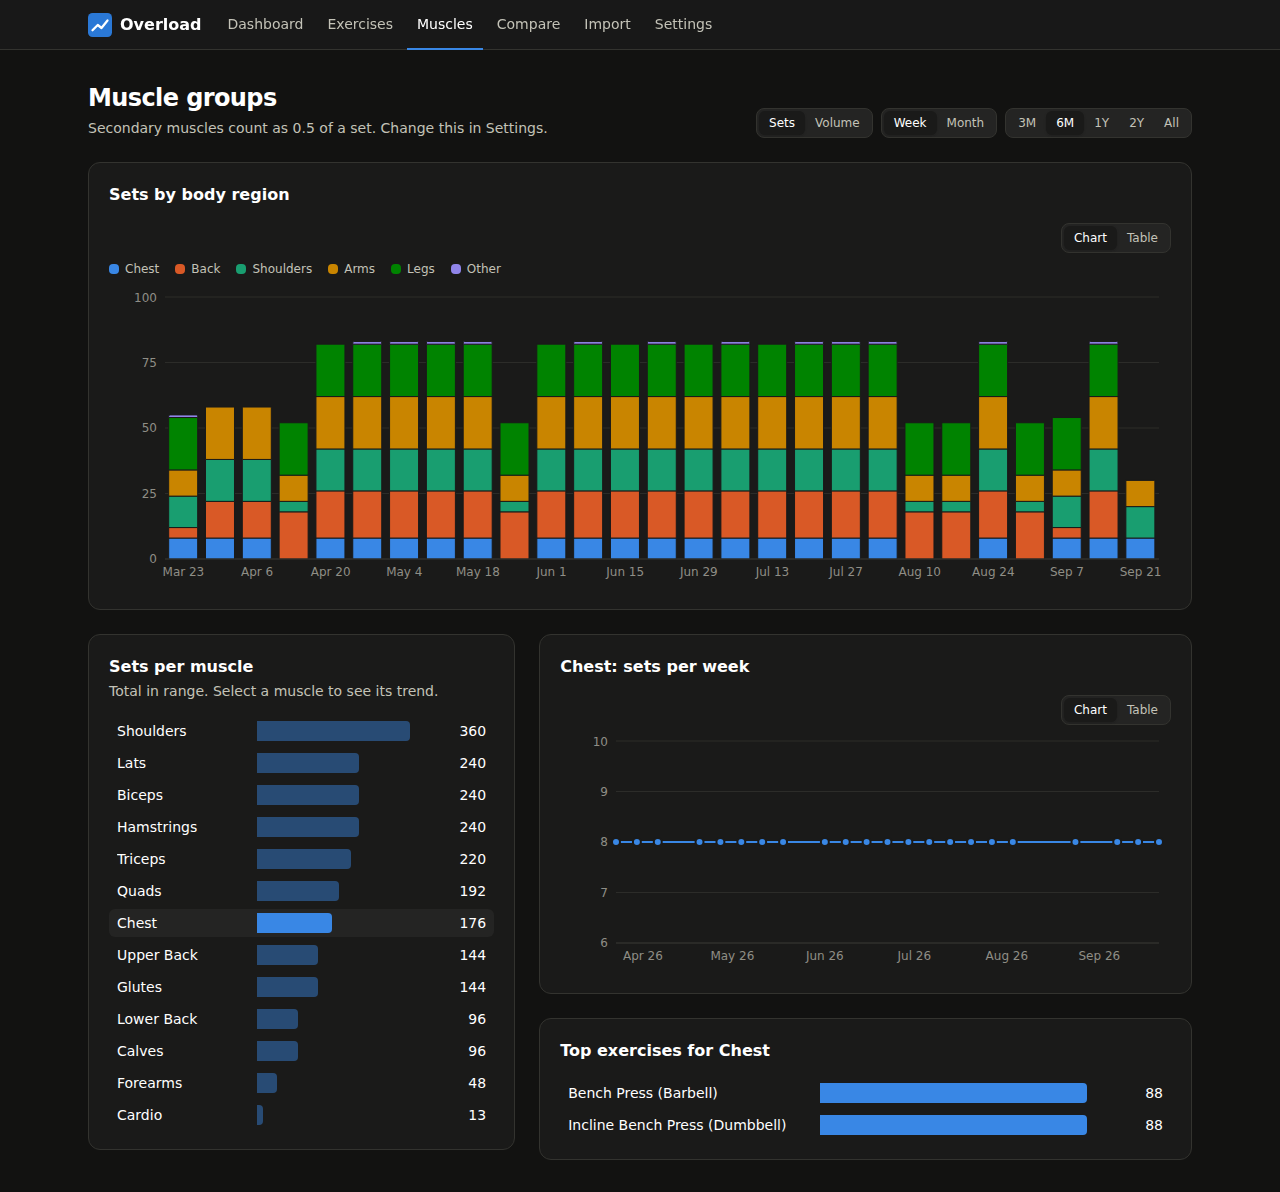
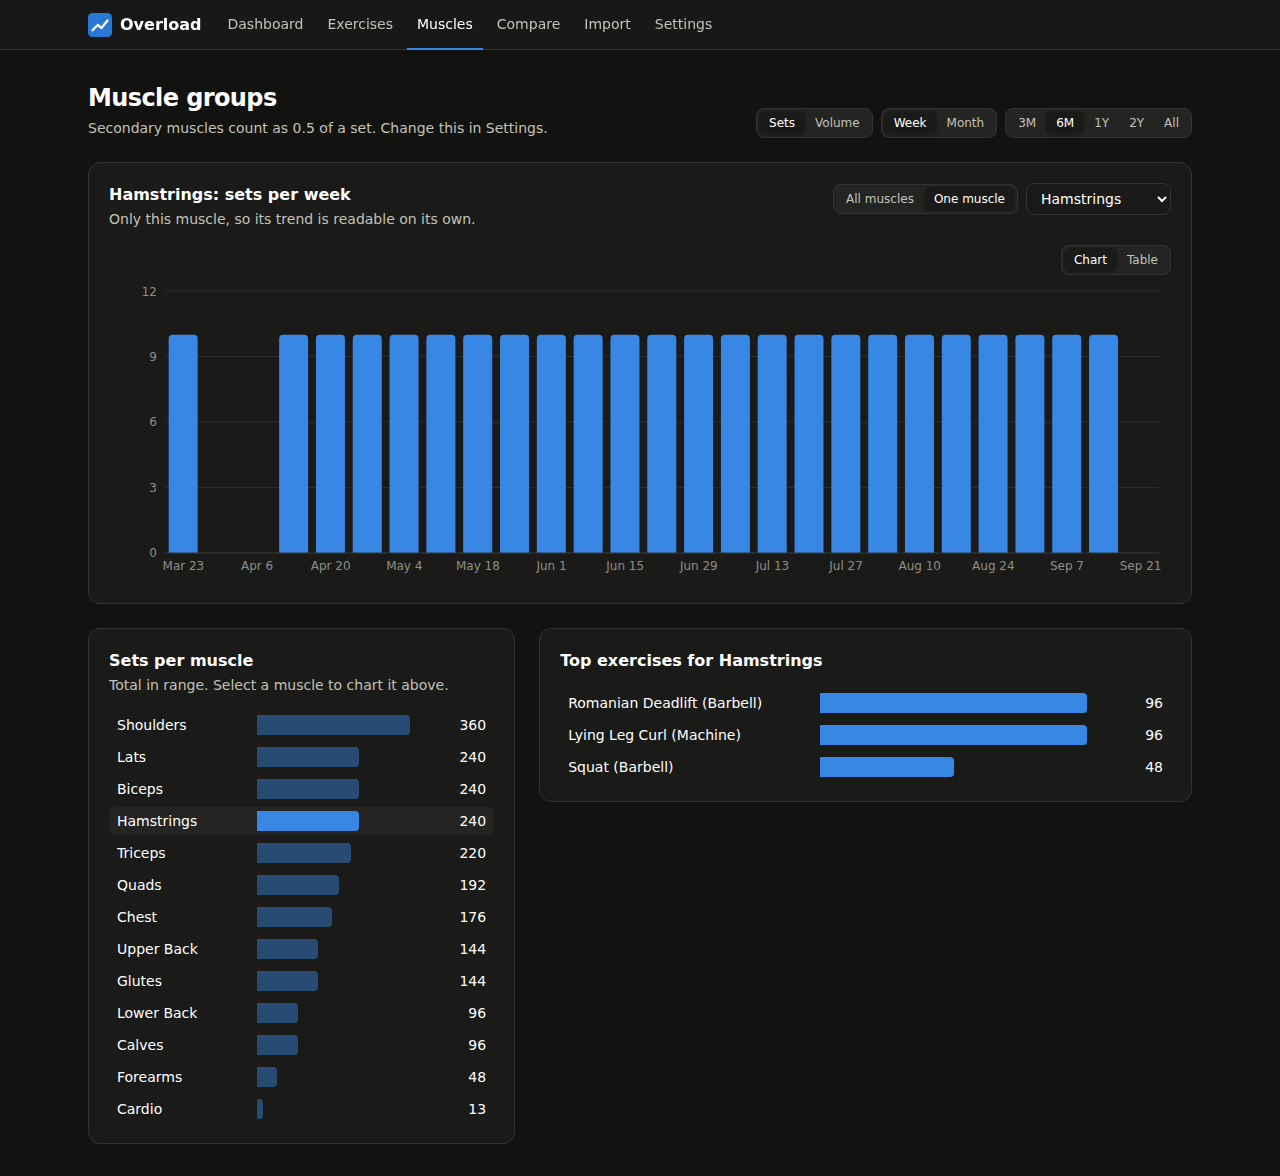
Let the muscles chart isolate one muscle; keep sample data from reseeding
The stacked region chart made a single muscle's trend hard to read. The top chart now
toggles between all muscles stacked and one muscle on its own, and picking a muscle in
the list below focuses the chart on it. That absorbs the separate per-muscle trend card,
which showed the same thing in a smaller space.

Also: the sample-data seed flag lived only in localStorage, so a browser that blocks it
could seed the sample again after the user removed it. Removal is now recorded in
IndexedDB alongside the data, and the preview build says its sandbox may clear storage.

Claude-Session: https://claude.ai/code/session_01AWoBy98a8NvHr3Bq7afczC

diff --git a/src/pages/MusclesPage.tsx b/src/pages/MusclesPage.tsx
@@ -1,8 +1,8 @@
 import { useMemo } from 'react';
-import { BarList, StackedBars, TrendChart } from '../components/charts';
+import { BarList, StackedBars } from '../components/charts';
 import { NoDataPage } from '../components/NoDataPage';
 import { RangeControls } from '../components/RangeControls';
-import { Card, Muted, PageHeader, Segmented } from '../components/ui';
+import { Card, Muted, PageHeader, Segmented, Select } from '../components/ui';
 import { inRange } from '../domain/analysis';
 import type { Bucket } from '../domain/dates';
 import { muscleContributors, muscleSeries, totalsByKey } from '../domain/metrics';
@@ -15,6 +15,8 @@ import { usePref } from '../hooks/usePref';
 import { SERIES_COLORS } from '../lib/colors';
 
 type Metric = 'sets' | 'volume';
+/** The top chart either breaks training down by region, or isolates one muscle. */
+type View = 'regions' | 'muscle';
 
 const BUCKETS: { id: Bucket; label: string }[] = [
   { id: 'week', label: 'Week' },
@@ -30,6 +32,7 @@ export default function MusclesPage() {
   const settings = useSettings();
   const [metric, setMetric] = usePref<Metric>('muscles.metric', 'sets');
   const [selected, setSelected] = usePref<MuscleGroup>('muscles.selected', 'Chest');
+  const [view, setView] = usePref<View>('muscles.view', 'regions');
   const { range, setRange, bucket, setBucket, start } = useChartControls('muscles', {
     range: '6m',
     bucket: 'week',
@@ -66,10 +69,22 @@ export default function MusclesPage() {
 
   const fmt = (v: number) => formatCompact(v, 1);
   const metricLabel = metric === 'sets' ? 'Sets' : `Volume (${settings.defaultUnit})`;
-  const trend = data.muscles.rows.flatMap((r) => {
-    const v = r[selected];
-    return typeof v === 'number' ? [{ period: r.period, value: v }] : [];
-  });
+  const single = view === 'muscle';
+
+  // One series for the chosen muscle. Periods it was not trained stay in, as zeros,
+  // so gaps in training are visible rather than collapsed away.
+  const muscleRows = data.muscles.rows.map((r) => ({
+    period: r.period,
+    value: Number(r[selected]) || 0,
+  }));
+  const muscleOptions = MUSCLE_GROUPS.filter(
+    (m) => m === selected || data.muscles.groups.includes(m),
+  ).map((m) => ({ id: m, label: m }));
+
+  const focusMuscle = (m: MuscleGroup) => {
+    setSelected(m);
+    setView('muscle');
+  };
 
   return (
     <>
@@ -98,20 +113,64 @@ export default function MusclesPage() {
         }
       />
 
-      <Card title={`${metricLabel} by body region`} className="mb-6">
-        <StackedBars
-          rows={data.regions.rows}
-          keys={REGION_KEYS.filter((k) => data.regions.groups.includes(k.id))}
-          bucket={bucket}
-          format={fmt}
-        />
+      <Card
+        className="mb-6"
+        title={
+          single
+            ? `${selected}: ${metricLabel.toLowerCase()} per ${bucket}`
+            : `${metricLabel} by body region`
+        }
+        subtitle={
+          single
+            ? 'Only this muscle, so its trend is readable on its own.'
+            : 'Every muscle stacked, to see how a session splits up.'
+        }
+        actions={
+          <>
+            <Segmented<View>
+              label="Chart contents"
+              value={view}
+              onChange={setView}
+              options={[
+                { id: 'regions', label: 'All muscles' },
+                { id: 'muscle', label: 'One muscle' },
+              ]}
+            />
+            {single && (
+              <Select
+                label="Muscle"
+                value={selected}
+                onChange={(m) => {
+                  setSelected(m);
+                }}
+                options={muscleOptions}
+              />
+            )}
+          </>
+        }
+      >
+        {single ? (
+          <StackedBars
+            rows={muscleRows}
+            keys={[{ id: 'value', label: selected, color: SERIES_COLORS[0] ?? '' }]}
+            bucket={bucket}
+            format={fmt}
+          />
+        ) : (
+          <StackedBars
+            rows={data.regions.rows}
+            keys={REGION_KEYS.filter((k) => data.regions.groups.includes(k.id))}
+            bucket={bucket}
+            format={fmt}
+          />
+        )}
       </Card>
 
       <div className="grid items-start gap-6 lg:grid-cols-5">
         <Card
           className="lg:col-span-2"
           title={`${metricLabel} per muscle`}
-          subtitle="Total in range. Select a muscle to see its trend."
+          subtitle="Total in range. Select a muscle to chart it above."
         >
           {data.totals.length ? (
             <BarList
@@ -119,7 +178,7 @@ export default function MusclesPage() {
               format={fmt}
               selected={selected}
               onSelect={(id) => {
-                setSelected(id as MuscleGroup);
+                focusMuscle(id as MuscleGroup);
               }}
             />
           ) : (
@@ -127,31 +186,21 @@ export default function MusclesPage() {
           )}
         </Card>
 
-        <div className="space-y-6 lg:col-span-3">
-          <Card title={`${selected}: ${metricLabel.toLowerCase()} per ${bucket}`}>
-            <TrendChart
-              series={[{ id: 'v', label: selected, color: SERIES_COLORS[0] ?? '', points: trend }]}
-              bucket={bucket}
+        <Card className="lg:col-span-3" title={`Top exercises for ${selected}`}>
+          {data.contributors.length ? (
+            <BarList
+              wideLabels
               format={fmt}
-              height={240}
+              items={data.contributors.map((c) => ({
+                id: c.exercise,
+                label: c.exercise,
+                value: c.value,
+              }))}
             />
-          </Card>
-          <Card title={`Top exercises for ${selected}`}>
-            {data.contributors.length ? (
-              <BarList
-                wideLabels
-                format={fmt}
-                items={data.contributors.map((c) => ({
-                  id: c.exercise,
-                  label: c.exercise,
-                  value: c.value,
-                }))}
-              />
-            ) : (
-              <Muted>No exercises hit this muscle in range.</Muted>
-            )}
-          </Card>
-        </div>
+          ) : (
+            <Muted>No exercises hit this muscle in range.</Muted>
+          )}
+        </Card>
       </div>
     </>
   );

diff --git a/src/hooks/useSampleData.ts b/src/hooks/useSampleData.ts
@@ -1,11 +1,24 @@
 import { useLiveQuery } from 'dexie-react-hooks';
 import { useEffect } from 'react';
 import { db } from '../db/db';
-import { commitImport, undoImport } from '../db/repo';
+import { commitImport, readFlag, undoImport, writeFlag } from '../db/repo';
 import { SAMPLE_FILE_NAME } from '../demo/sampleName';
 import { parseFile } from '../importers';
 import { sha256 } from '../lib/hash';
 import { readPref, writePref } from '../lib/storage';
+
+/** Set once the sample has been removed, so it is never seeded back in. */
+const SAMPLE_REMOVED = 'sampleRemoved';
+
+/**
+ * Auto-seeding is for a first visit only: never after the sample was removed, and never
+ * over existing data. The flag lives in IndexedDB beside the data, so it holds up in
+ * browsers that block localStorage.
+ */
+export async function shouldSeedSample(): Promise<boolean> {
+  if (await readFlag(db, SAMPLE_REMOVED)) return false;
+  return (await db.sets.count()) === 0;
+}
 
 /** Generates and imports the sample export through the normal import pipeline. */
 export async function importSampleData() {
@@ -24,7 +37,12 @@ export function useSampleImport() {
     () => db.imports.filter((r) => r.fileName === SAMPLE_FILE_NAME).first(),
     [],
   );
-  const remove = () => (record?.id != null ? undoImport(db, record.id) : Promise.resolve(0));
+  const remove = async () => {
+    if (record?.id == null) return 0;
+    const removed = await undoImport(db, record.id);
+    await writeFlag(db, SAMPLE_REMOVED, true);
+    return removed;
+  };
   return { record, remove };
 }
 
@@ -36,6 +54,6 @@ export function useDemoSeed() {
   useEffect(() => {
     if (import.meta.env.VITE_DEMO !== '1' || readPref<boolean>('demo.seeded', false)) return;
     writePref('demo.seeded', true);
-    void db.sets.count().then((n) => (n === 0 ? importSampleData() : undefined));
+    void shouldSeedSample().then((seed) => (seed ? importSampleData() : undefined));
   }, []);
 }

diff --git a/src/hooks/useSampleData.test.ts b/src/hooks/useSampleData.test.ts
@@ -1,18 +1,31 @@
 import { db } from '../db/db';
+import { writeFlag } from '../db/repo';
 import { SAMPLE_FILE_NAME } from '../demo/sampleName';
-import { importSampleData } from './useSampleData';
+import { importSampleData, shouldSeedSample } from './useSampleData';
 
-describe('importSampleData', () => {
+describe('sample data', () => {
   afterEach(async () => {
     await db.delete();
     await db.open();
   });
 
-  it('imports the sample through the normal pipeline, and only once', async () => {
+  it('imports through the normal pipeline, and only once', async () => {
     const first = await importSampleData();
     expect(first.fileName).toBe(SAMPLE_FILE_NAME);
     expect(first.added).toBeGreaterThan(1000);
     const again = await importSampleData();
     expect(again.added).toBe(0);
+  });
+
+  it('seeds only an empty database that has never had the sample removed', async () => {
+    expect(await shouldSeedSample()).toBe(true);
+
+    await importSampleData();
+    expect(await shouldSeedSample()).toBe(false);
+
+    // Removing the sample leaves the database empty but must not invite a re-seed.
+    await db.sets.clear();
+    await writeFlag(db, 'sampleRemoved', true);
+    expect(await shouldSeedSample()).toBe(false);
   });
 });

diff --git a/src/components/SampleDataBanner.tsx b/src/components/SampleDataBanner.tsx
@@ -2,6 +2,9 @@ import { useState } from 'react';
 import { useSampleImport } from '../hooks/useSampleData';
 import { Button, Callout } from './ui';
 
+// Demo builds are the hosted preview; a real deployment keeps data like any other site.
+const isPreview = import.meta.env.VITE_DEMO === '1';
+
 /** Marks generated sample data as such, with a one-click way to remove it. */
 export function SampleDataBanner() {
   const { record, remove } = useSampleImport();
@@ -10,7 +13,16 @@ export function SampleDataBanner() {
   return (
     <Callout className="mb-6" tone="info" title="You're looking at generated sample data">
       <div className="flex flex-wrap items-center justify-between gap-2">
-        <span>Remove it before importing your own Strong export so the two don&apos;t mix.</span>
+        <span>
+          Remove it before importing your own Strong export so the two don&apos;t mix.
+          {isPreview && (
+            <>
+              {' '}
+              This preview runs in a sandbox that may clear browser storage between visits, so
+              don&apos;t count on anything you import here sticking around.
+            </>
+          )}
+        </span>
         <Button
           disabled={busy}
           onClick={() => {

diff --git a/src/db/repo.test.ts b/src/db/repo.test.ts
@@ -12,8 +12,10 @@ import {
   findDuplicateSets,
   loadSettings,
   previewImport,
+  readFlag,
   restoreBackup,
   saveSettings,
+  writeFlag,
   undoImport,
   updateExercise,
 } from './repo';
@@ -262,5 +264,15 @@ describe('sync removing a whole workout', () => {
     expect(await db.workouts.count()).toBe(2);
     const push = await db.workouts.get('2019-01-30T18:02:00|Push');
     expect(push?.durationSec).toBe(3300);
+  });
+});
+
+describe('meta flags', () => {
+  it('default to false and survive a settings save', async () => {
+    expect(await readFlag(db, 'sampleRemoved')).toBe(false);
+    await writeFlag(db, 'sampleRemoved', true);
+    await saveSettings(db, { defaultUnit: 'kg' });
+    expect(await readFlag(db, 'sampleRemoved')).toBe(true);
+    expect((await loadSettings(db)).defaultUnit).toBe('kg');
   });
 });

diff --git a/src/db/repo.ts b/src/db/repo.ts
@@ -32,6 +32,18 @@ export async function saveSettings(db: OverloadDB, patch: Partial<Settings>): Pr
   await db.meta.put({ key: SETTINGS_KEY, value: { ...current, ...patch } });
 }
 
+/**
+ * Small named booleans in the meta table, for state that must outlive localStorage
+ * (which some embedded browsers block or wipe between visits).
+ */
+export async function readFlag(db: OverloadDB, key: string): Promise<boolean> {
+  return (await db.meta.get(key))?.value === true;
+}
+
+export async function writeFlag(db: OverloadDB, key: string, value: boolean): Promise<void> {
+  await db.meta.put({ key, value });
+}
+
 export interface SyncPreview {
   /** Stored sets this file covers but no longer contains — deleted in the source app. */
   toRemove: WorkoutSet[];
